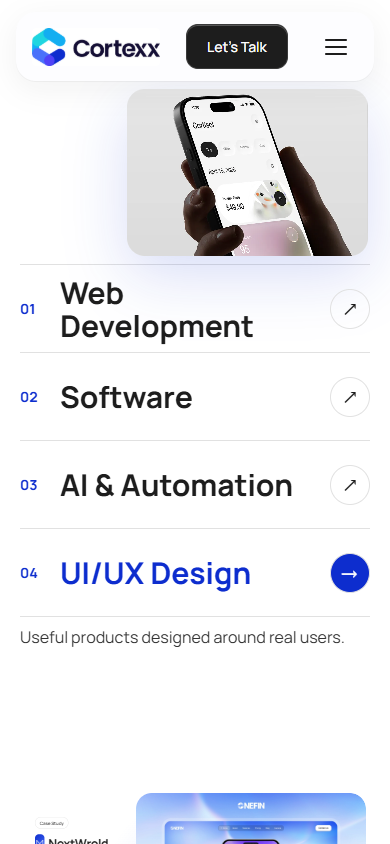
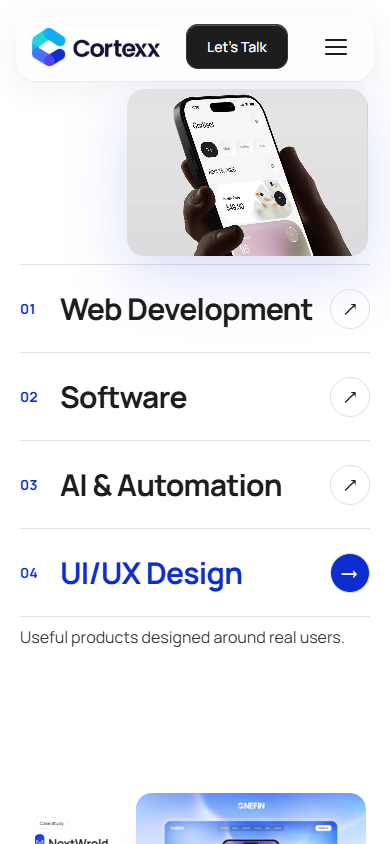
Finalize compact mobile services visual acceptance

diff --git a/public/assets/css/app.css b/public/assets/css/app.css
@@ -162,7 +162,7 @@ button{font:inherit;border:0;background:none;cursor:pointer}
   .service-row{position:relative;display:grid;grid-template-columns:30px minmax(0,1fr) 40px;gap:10px;align-items:center;height:88px;padding:8px 0;border-bottom:1px solid var(--line);color:var(--ink);transition:color .3s;scroll-margin-top:calc(69px + 24px)}
   .service-icon{font-size:14px;color:var(--blue);font-weight:700}
   .service-copy{display:block;min-width:0}
-  .service-copy strong{display:block;font-size:30px;line-height:1.1;font-weight:700}
+  .service-copy strong{display:block;font-size:30px;line-height:1.1;font-weight:700;letter-spacing:-.025em}
   .service-arrow{width:40px;height:40px;border:1px solid var(--line);border-radius:50%;display:grid;place-items:center;font-size:22px;transition:background .3s,color .3s,transform .3s}
   .service-row:focus-visible,.service-row.is-active{color:var(--blue)}
   .service-row:focus-visible .service-arrow,.service-row.is-active .service-arrow{background:var(--blue);color:#fff;transform:rotate(45deg)}

diff --git a/resources/views/layouts/main.php b/resources/views/layouts/main.php
@@ -20,10 +20,10 @@ $content = str_replace($base . '/assets/', $assetPrefix . '/', $content);
 <link rel="preconnect" href="https://fonts.googleapis.com">
 <link rel="preconnect" href="https://fonts.gstatic.com" crossorigin>
 <link href="https://fonts.googleapis.com/css2?family=Manrope:wght@400;500;600;700;800&display=swap" rel="stylesheet">
-<link rel="stylesheet" href="<?= $assetPrefix ?>/css/app.css?v=mobile-single-preview-20261024e">
+<link rel="stylesheet" href="<?= $assetPrefix ?>/css/app.css?v=mobile-single-preview-20261024f">
 </head>
 <body>
 <?= $content ?>
-<script src="<?= $assetPrefix ?>/js/app.js?v=mobile-single-preview-20261024e" defer></script>
+<script src="<?= $assetPrefix ?>/js/app.js?v=mobile-single-preview-20261024f" defer></script>
 </body>
 </html>

diff --git a/docs/qa/mobile-single-preview-20261024/README.md b/docs/qa/mobile-single-preview-20261024/README.md
@@ -13,6 +13,8 @@ Source: `mobile_updated.fig`, 390px canvas. This is a local review only; nothing
 
 The 110px section-height difference comes from giving the shared image and active description their own non-overlapping, fixed-height space. Figma layers the image over the row area. Reproducing that overlap would obstruct service text while the image switches. At 360px the local section is 967px because the fixed description area needs one more line.
 
+Final 390px visual review: the Web Development title now fits on one line with tighter mobile-only letter spacing. The four refreshed screenshots show the preview clear of every service row and the active title, arrow, and description visible. The section remains 110px taller than Figma; reducing it to 833px with this composition would require the shared image to occupy service-row space and obscure headings.
+
 ## Results
 
 - Three downward/upward cycles and rapid scrolling at 360×780, 390×844, and 430×932, in normal and reduced-motion modes.
